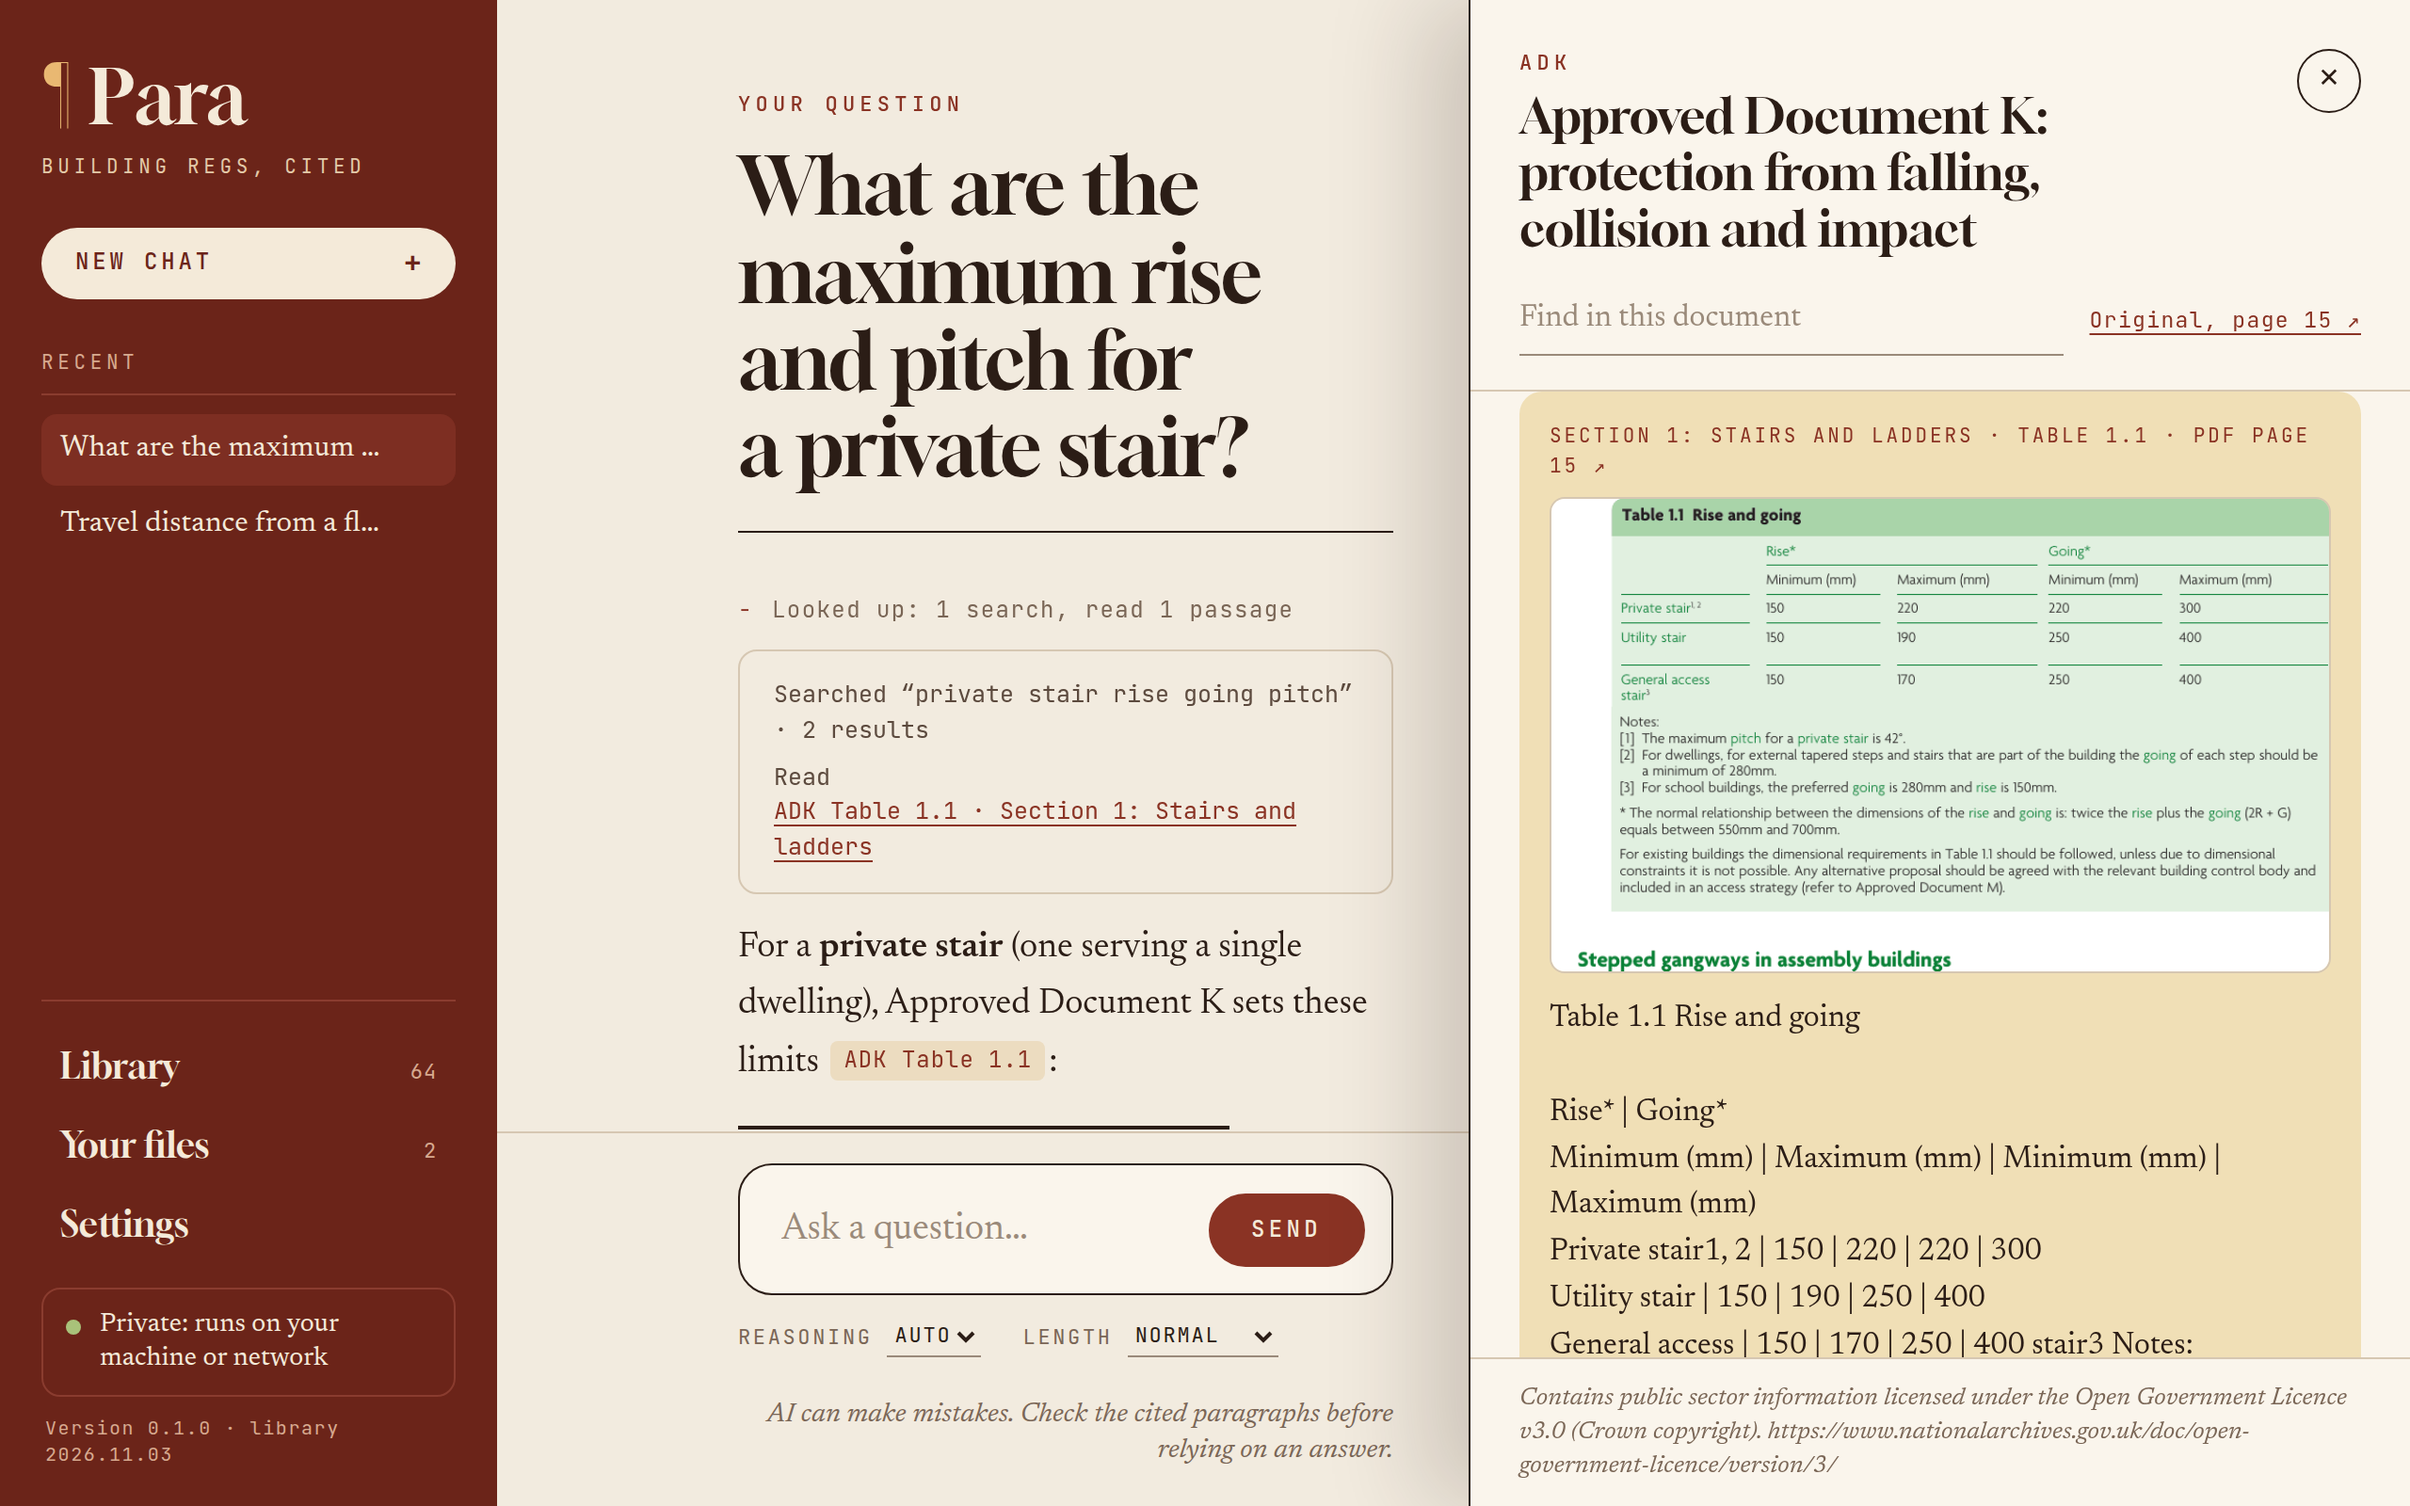
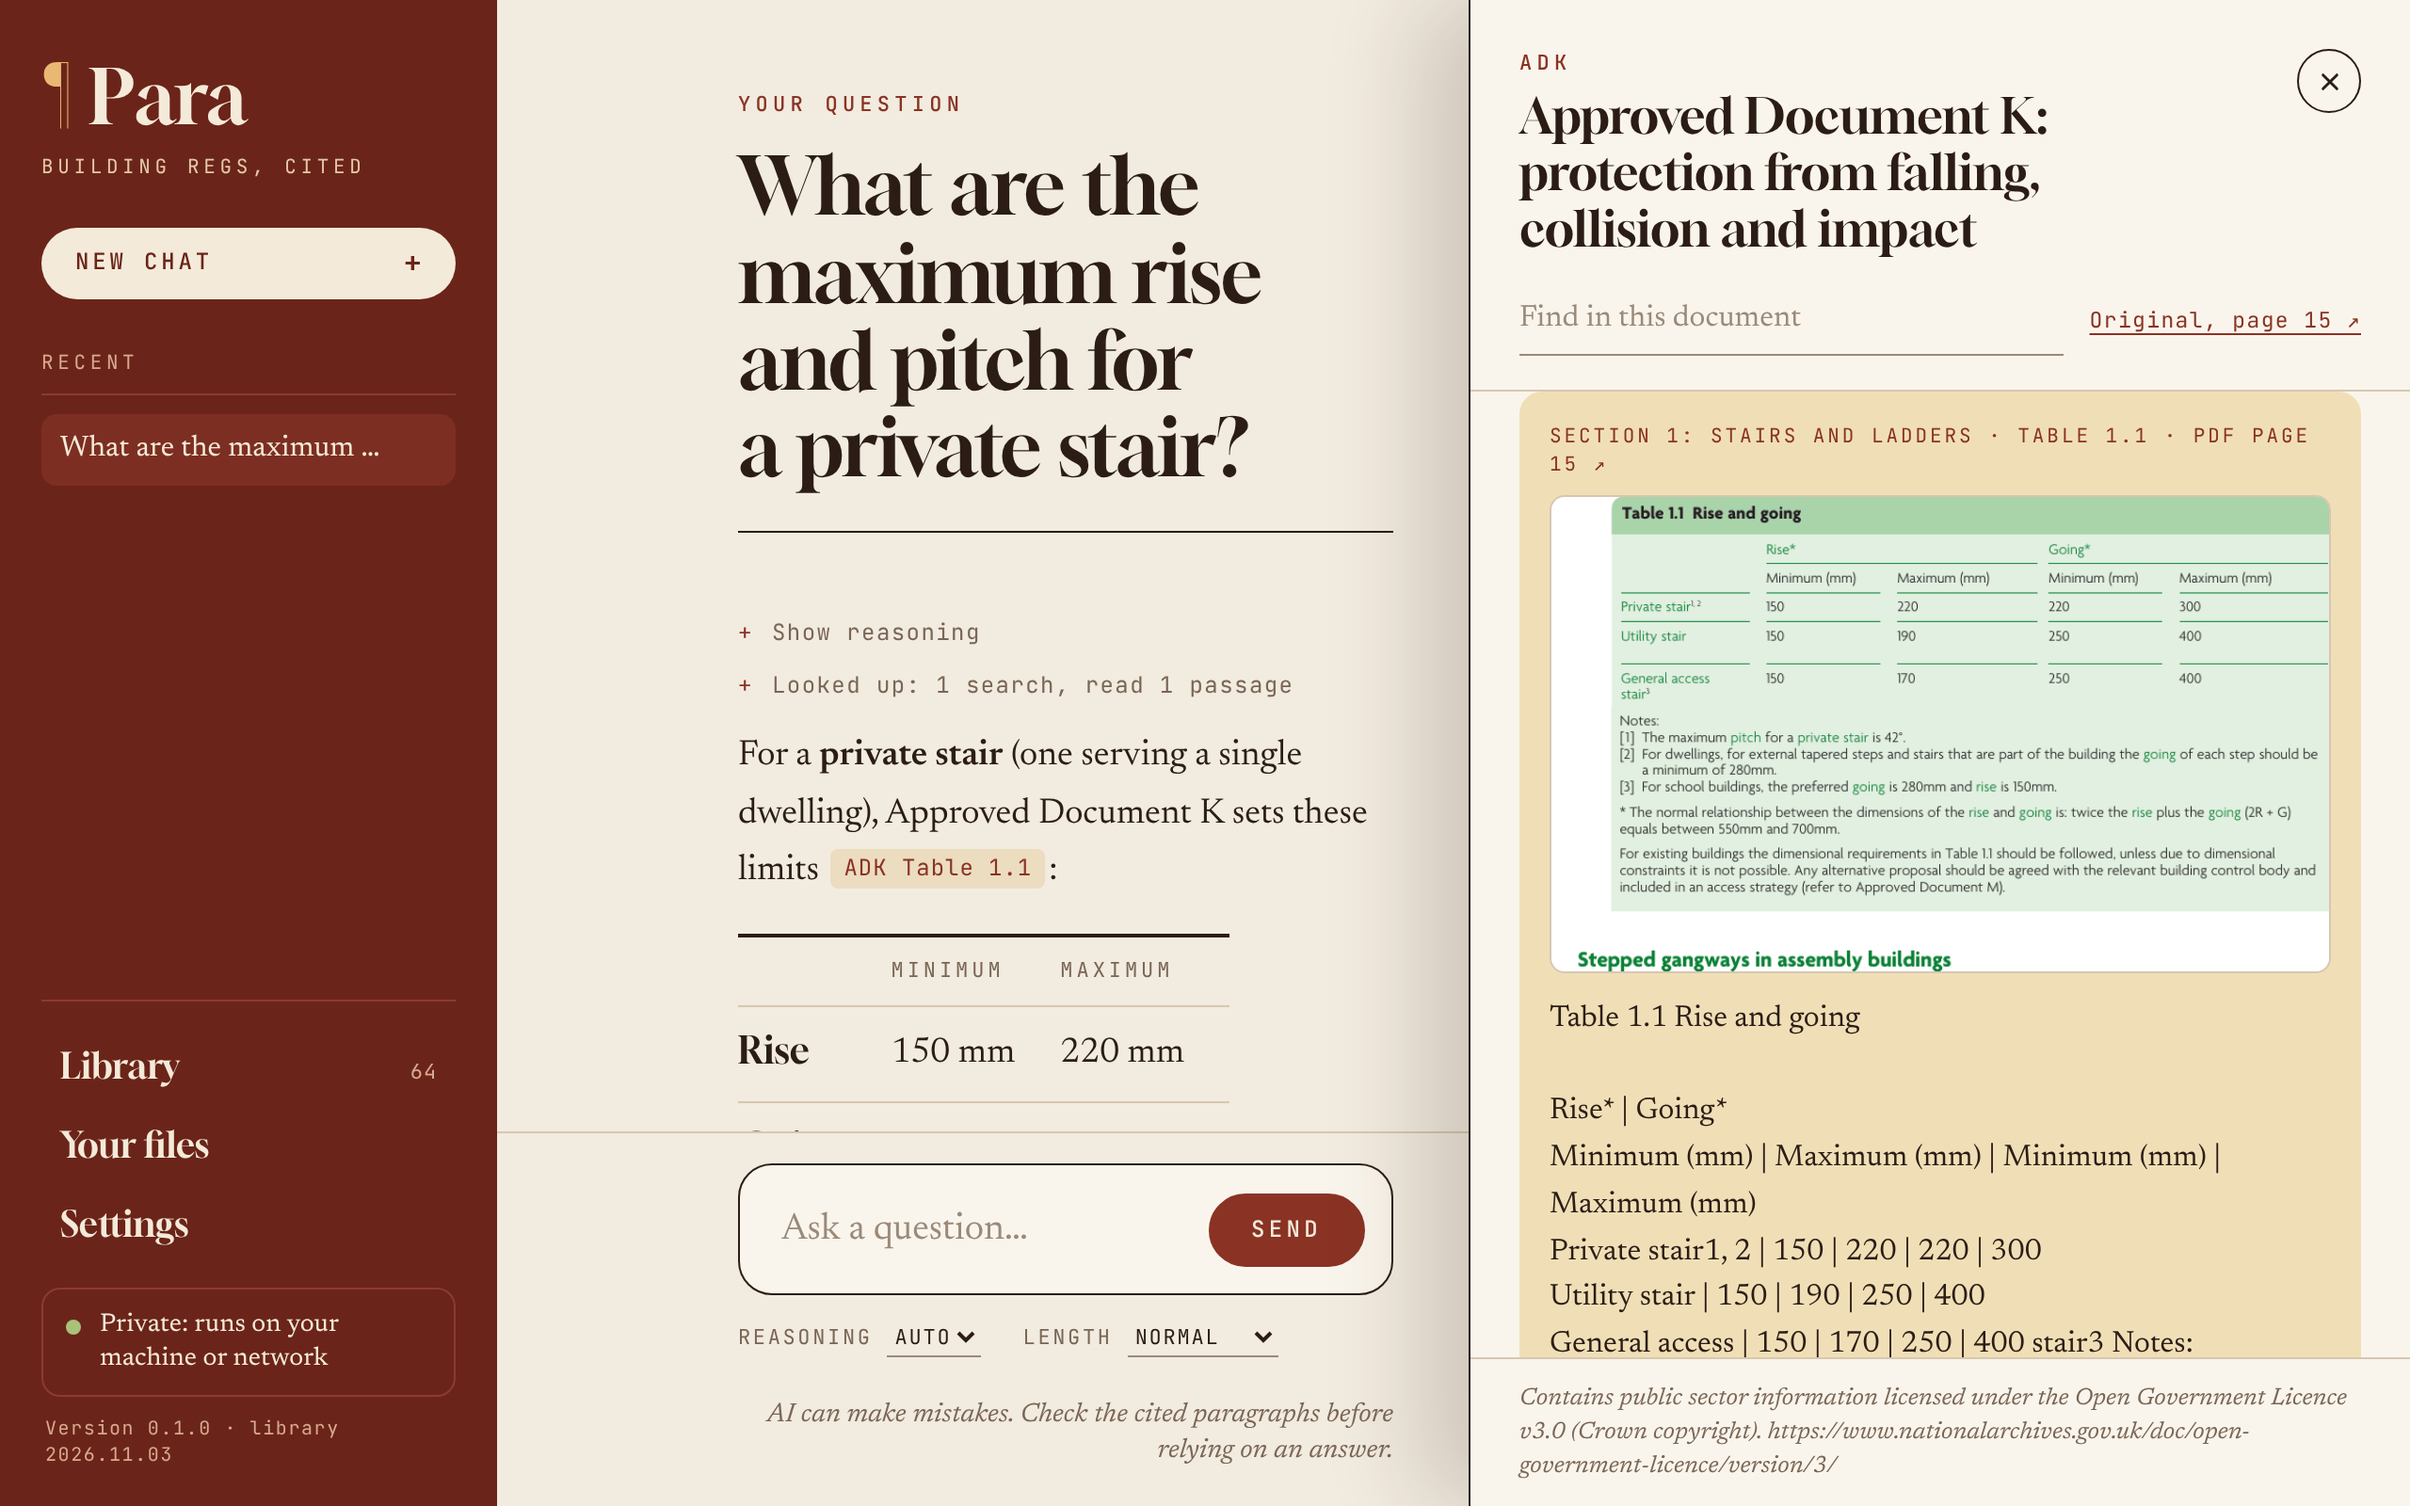
Centre the close and delete crosses
The ✕ character sits off-centre in the circle because of the glyph's own
spacing in the interface fonts. Draw the cross as a small SVG instead, so it
is exactly centred (measured 0 px off) in the reader, dialogs, phone menu and
chat list. Retake the answer-and-reader screenshots, which the website shows.

Claude-Session: https://claude.ai/code/session_01RnhYdutBXnWhVfBExJcibh

diff --git a/para/static/index.html b/para/static/index.html
@@ -10,7 +10,7 @@
 <div id="app">
   <aside id="sidebar">
     <div class="brand"><span class="logo">¶</span><span>Para<br><small>Building regs, cited</small></span>
-      <button class="icon close" id="closeMenu" aria-label="Close menu">✕</button></div>
+      <button class="icon close" id="closeMenu" aria-label="Close menu"><svg class="x" viewBox="0 0 12 12" aria-hidden="true"><path d="M2 2l8 8M10 2l-8 8"/></svg></button></div>
     <button id="newChat" class="btn primary wide"><span>New chat</span><span aria-hidden="true">+</span></button>
     <nav id="chatList" aria-label="Chats"></nav>
     <div class="side-foot">
@@ -69,7 +69,7 @@
         <div id="readerSource" class="reader-source"></div>
         <div id="readerTitle" class="reader-title"></div>
       </div>
-      <button class="icon" id="closeReader" aria-label="Close">✕</button>
+      <button class="icon" id="closeReader" aria-label="Close"><svg class="x" viewBox="0 0 12 12" aria-hidden="true"><path d="M2 2l8 8M10 2l-8 8"/></svg></button>
     </header>
     <div class="reader-tools">
       <input id="readerFind" type="search" placeholder="Find in this document">
@@ -81,7 +81,7 @@
 </div>
 
 <dialog id="dlg-settings" class="modal">
-  <form method="dialog" class="modal-head"><div><div class="eyebrow">Para</div><h2>Settings</h2></div><button class="icon" aria-label="Close">✕</button></form>
+  <form method="dialog" class="modal-head"><div><div class="eyebrow">Para</div><h2>Settings</h2></div><button class="icon" aria-label="Close"><svg class="x" viewBox="0 0 12 12" aria-hidden="true"><path d="M2 2l8 8M10 2l-8 8"/></svg></button></form>
   <div class="tabs" role="tablist">
     <button class="tab active" data-tab="engine">AI engine</button>
     <button class="tab" data-tab="instructions">Instructions</button>
@@ -157,7 +157,7 @@
 </dialog>
 
 <dialog id="dlg-files" class="modal">
-  <form method="dialog" class="modal-head"><div><div class="eyebrow">Searched with the library</div><h2>Your files</h2></div><button class="icon" aria-label="Close">✕</button></form>
+  <form method="dialog" class="modal-head"><div><div class="eyebrow">Searched with the library</div><h2>Your files</h2></div><button class="icon" aria-label="Close"><svg class="x" viewBox="0 0 12 12" aria-hidden="true"><path d="M2 2l8 8M10 2l-8 8"/></svg></button></form>
   <p class="muted small">Add your own documents (specifications, fire strategies, building control comments,
     manufacturers' guidance) and they're searched together with the library. They stay on this computer, in
     <a href="#" id="openFolder">your files folder</a>; files you put in that folder are picked up on their own.</p>
@@ -181,7 +181,7 @@
 </dialog>
 
 <dialog id="dlg-library" class="modal wide">
-  <form method="dialog" class="modal-head"><div><div class="eyebrow">Browse, or search without AI</div><h2>Library</h2></div><button class="icon" aria-label="Close">✕</button></form>
+  <form method="dialog" class="modal-head"><div><div class="eyebrow">Browse, or search without AI</div><h2>Library</h2></div><button class="icon" aria-label="Close"><svg class="x" viewBox="0 0 12 12" aria-hidden="true"><path d="M2 2l8 8M10 2l-8 8"/></svg></button></form>
   <label class="lib-search"><span>Search</span><input id="libSearch" type="search"
     placeholder="Search the library directly (no AI), e.g. 'protected stairway door'"></label>
   <div id="libResults"></div>

diff --git a/para/static/app.js b/para/static/app.js
@@ -96,7 +96,7 @@ function renderChats() {
   for (const c of S.chats) {
     const row = document.createElement("div");
     row.className = "chat-item" + (c.id === chatId ? " active" : "");
-    row.innerHTML = `<button class="open" title="${esc(c.title)}">${esc(c.title || "Chat")}</button><button class="del" title="Delete">✕</button>`;
+    row.innerHTML = `<button class="open" title="${esc(c.title)}">${esc(c.title || "Chat")}</button><button class="del" title="Delete" aria-label="Delete chat"><svg class="x" viewBox="0 0 12 12" aria-hidden="true"><path d="M2 2l8 8M10 2l-8 8"/></svg></button>`;
     $(".open", row).onclick = () => openChat(c.id);
     $(".del", row).onclick = async () => {
       if (!confirm("Delete this chat?")) return;

diff --git a/para/static/app.css b/para/static/app.css
@@ -502,3 +502,8 @@ input[type=checkbox]:checked { background-color: var(--accent); border-color: va
   .lib-source { grid-template-columns: 84px minmax(0, 1fr); gap: 4px 12px; }
   .lib-source small { grid-column: 2; text-align: left; }
 }
+
+/* The close and delete crosses are drawn, not typed: the ✕ character sits off-centre in most fonts. */
+svg.x { width: 12px; height: 12px; display: block; fill: none; stroke: currentColor; stroke-width: 1.6; stroke-linecap: round; }
+.icon svg.x { width: 11px; height: 11px; }
+.del svg.x { width: 10px; height: 10px; }
